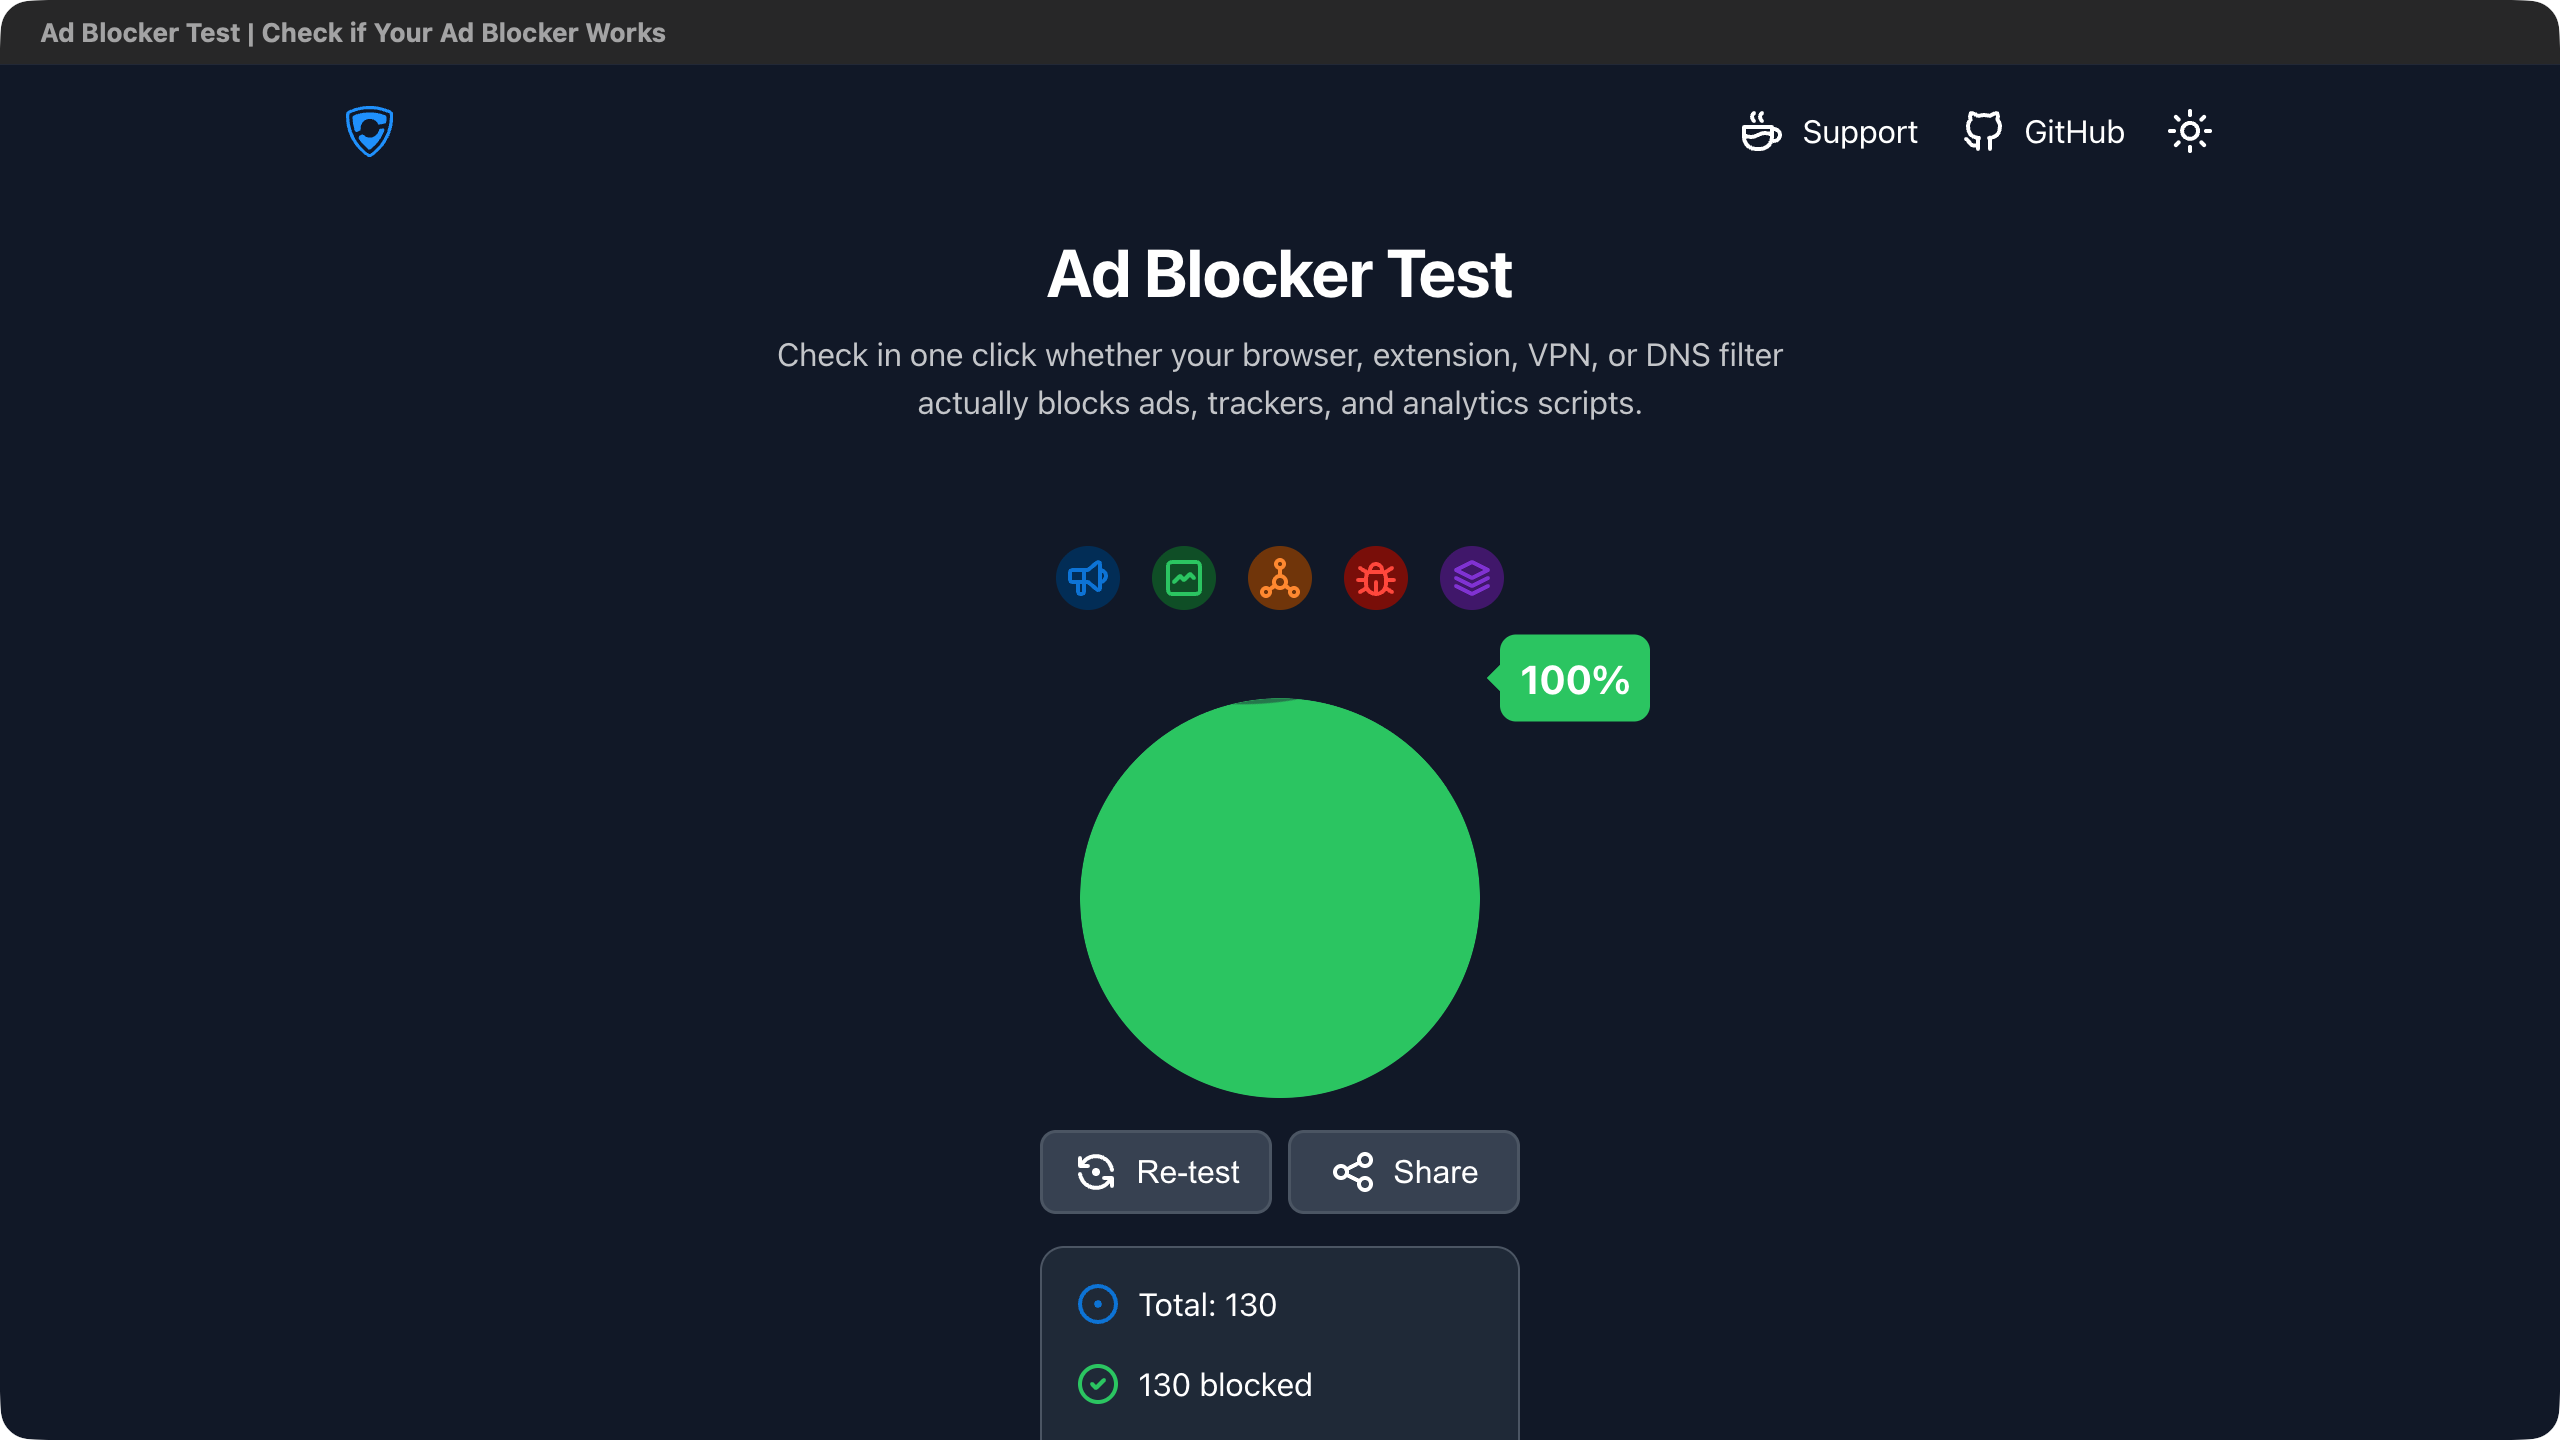
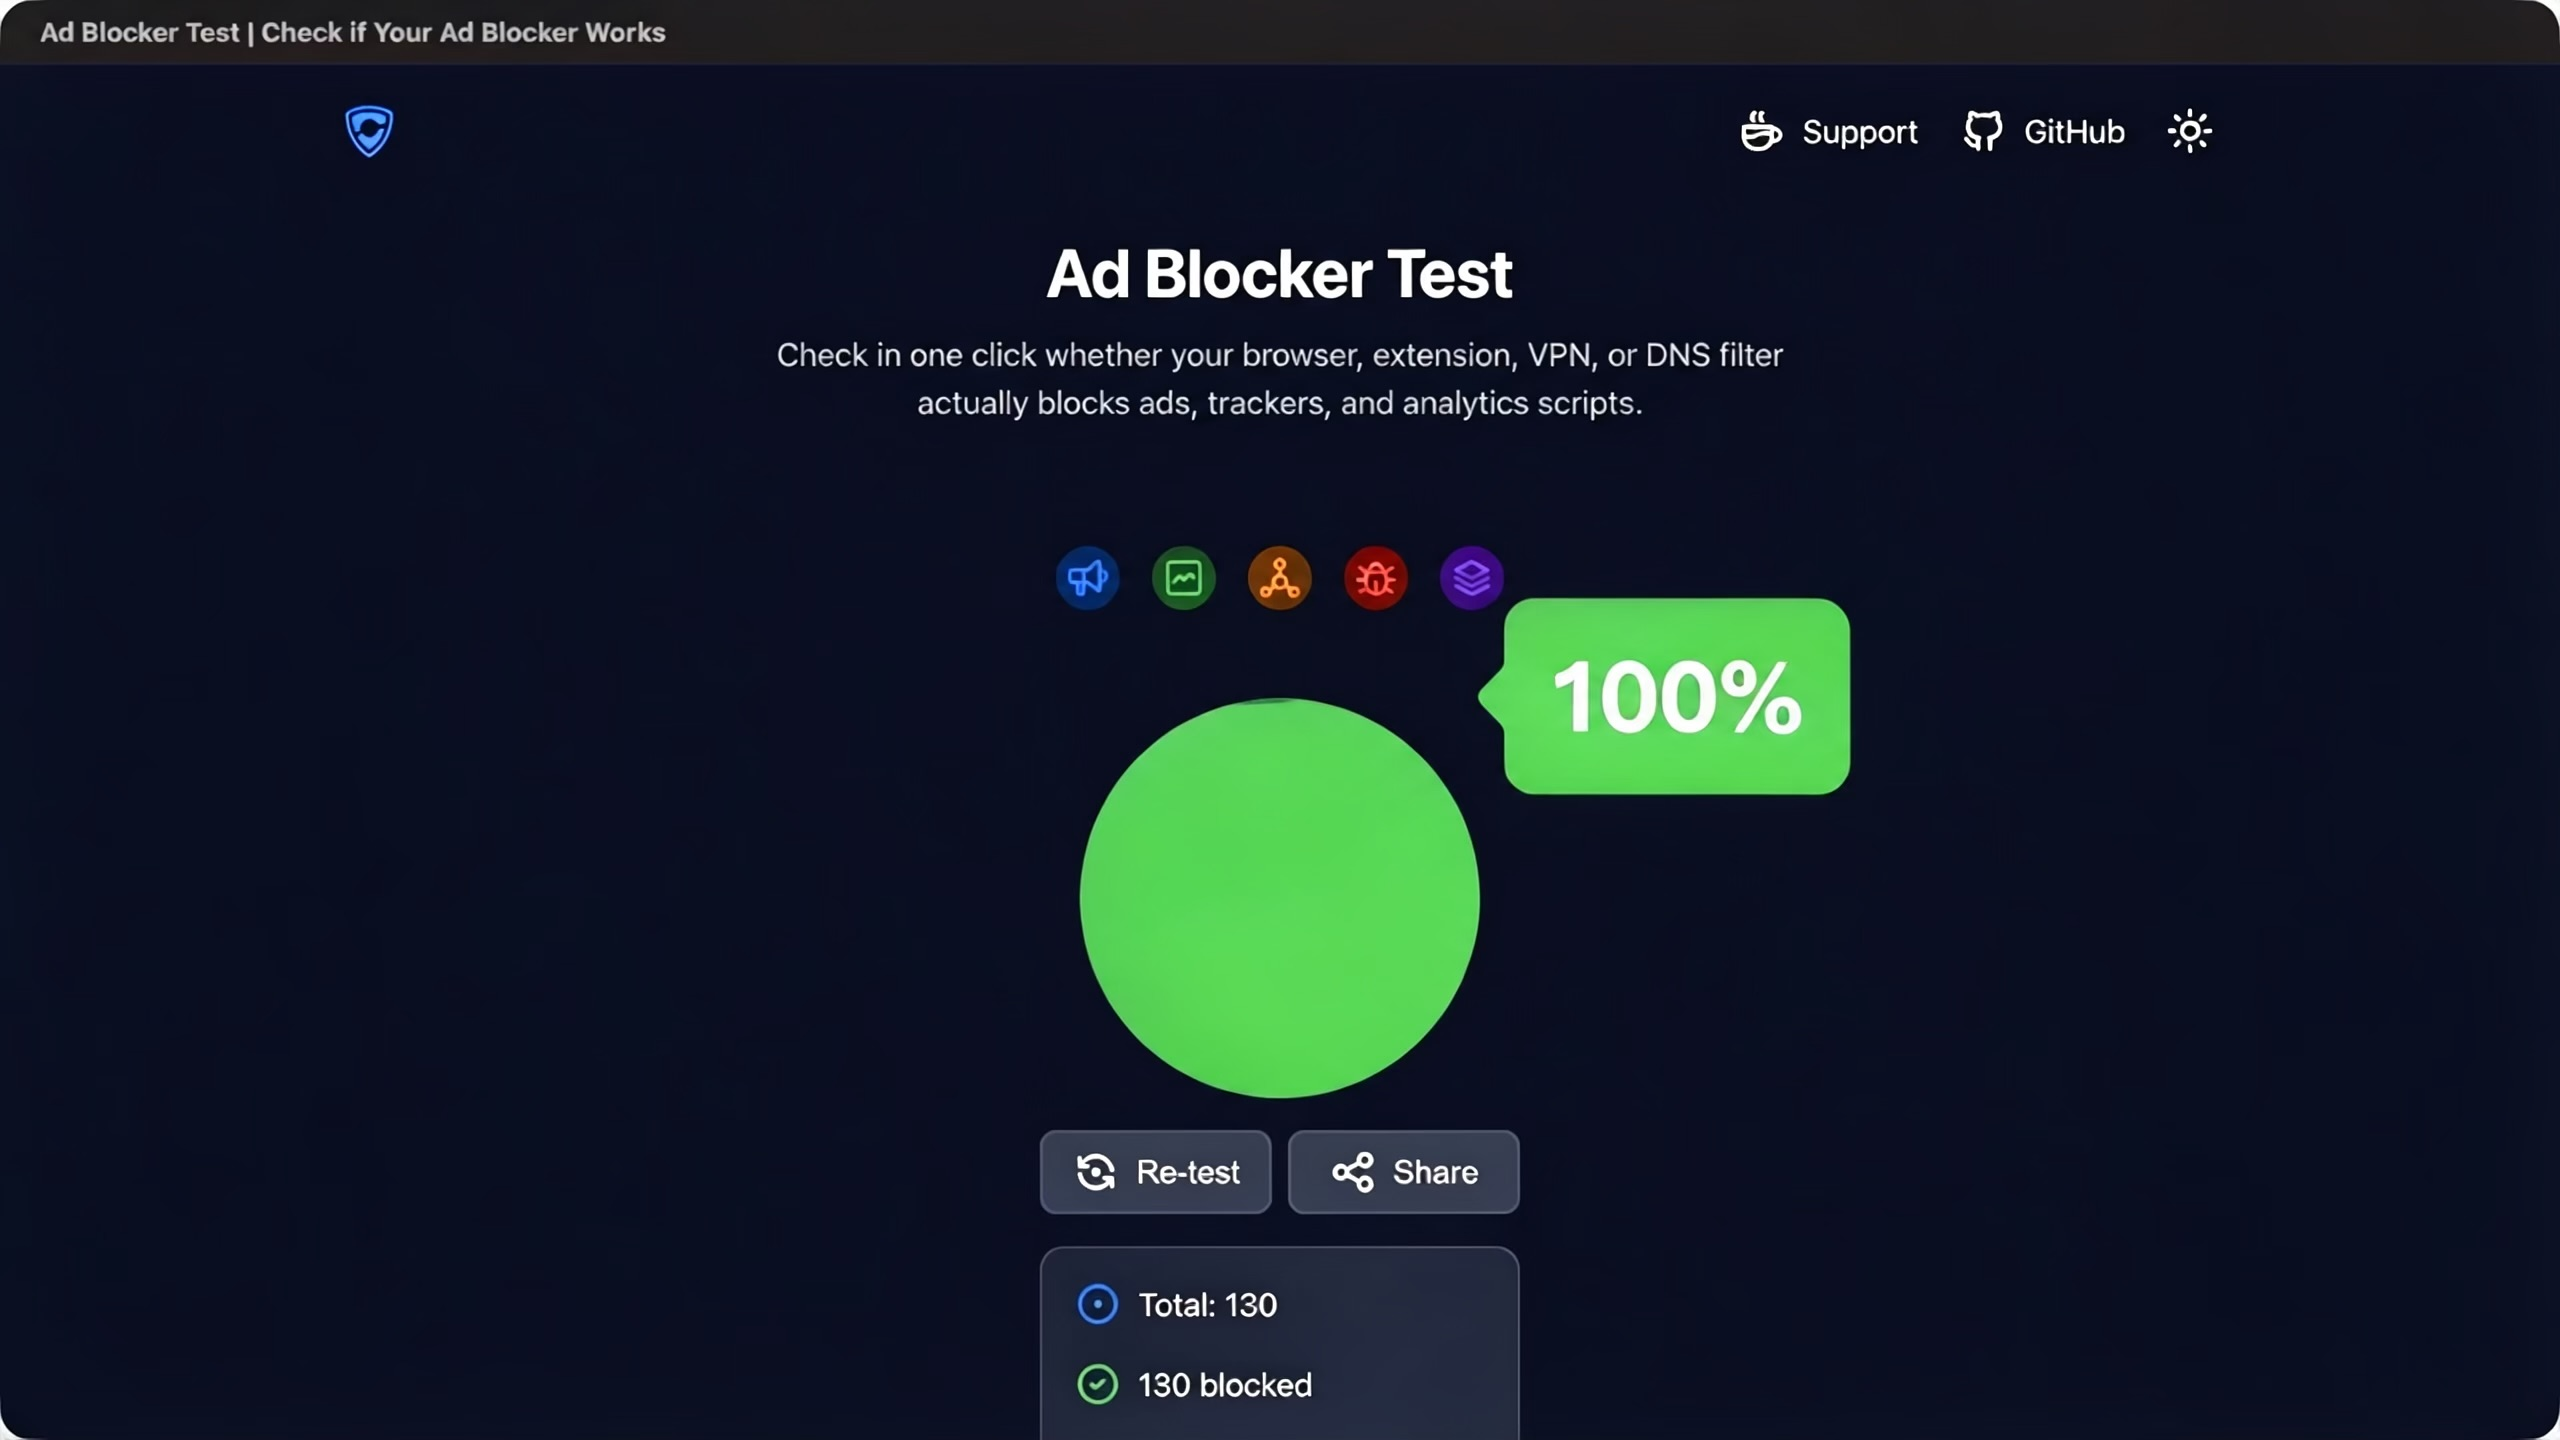
screenshot

diff --git a/README.md b/README.md
@@ -15,11 +15,12 @@ No IPC channel is required for inter process cosmetic injections and no preload 
 Cosmetic filtering works across attached sub_frame and main_frame with no reliance on ordinary page-script access or same-origin restrictions.
 
 Built on AdGuard's powerful `tsurlfilter` engine, selected for this package after out-performing competing engines in real world blocking comparison score.
-Adblock-Electron updates filters every 12 hours fetching from fastest-responder of 4 [adtidy-filter-mirror](https://github.com/gingergeek8192/adtidy-filter-mirror) hosts, maintained for redundant filter delivery through independent infrastructures.
+
+Adblock-Electron updates non-deprecated (87 currently) filter lists every 12 hours fetching from fastest-responder of 4 [adtidy-filter-mirror](https://github.com/gingergeek8192/adtidy-filter-mirror) hosts, maintained for robust redundancy across 3 independent networks. 
 
 
 ## Test Results
-- screenshots
+- Adblock Test Screenshots
 
 <details>
 <summary>View Screenshots</summary>
@@ -34,12 +35,12 @@ Adblock-Electron updates filters every 12 hours fetching from fastest-responder 
 
 </details>
 
-- Test Logs
+- Adblock Test Logs
 
 <details>
 <summary>View Logs</summary>
 
-```js
+```json
 Adblock Ready
 adblock-create-ready
 ────────────────────────────────────────────────────────────────────────
@@ -134,3 +135,11 @@ adblock-create-ready
 ```
 
 </details>
+
+
+
+## API
+
+```js
+
+```
